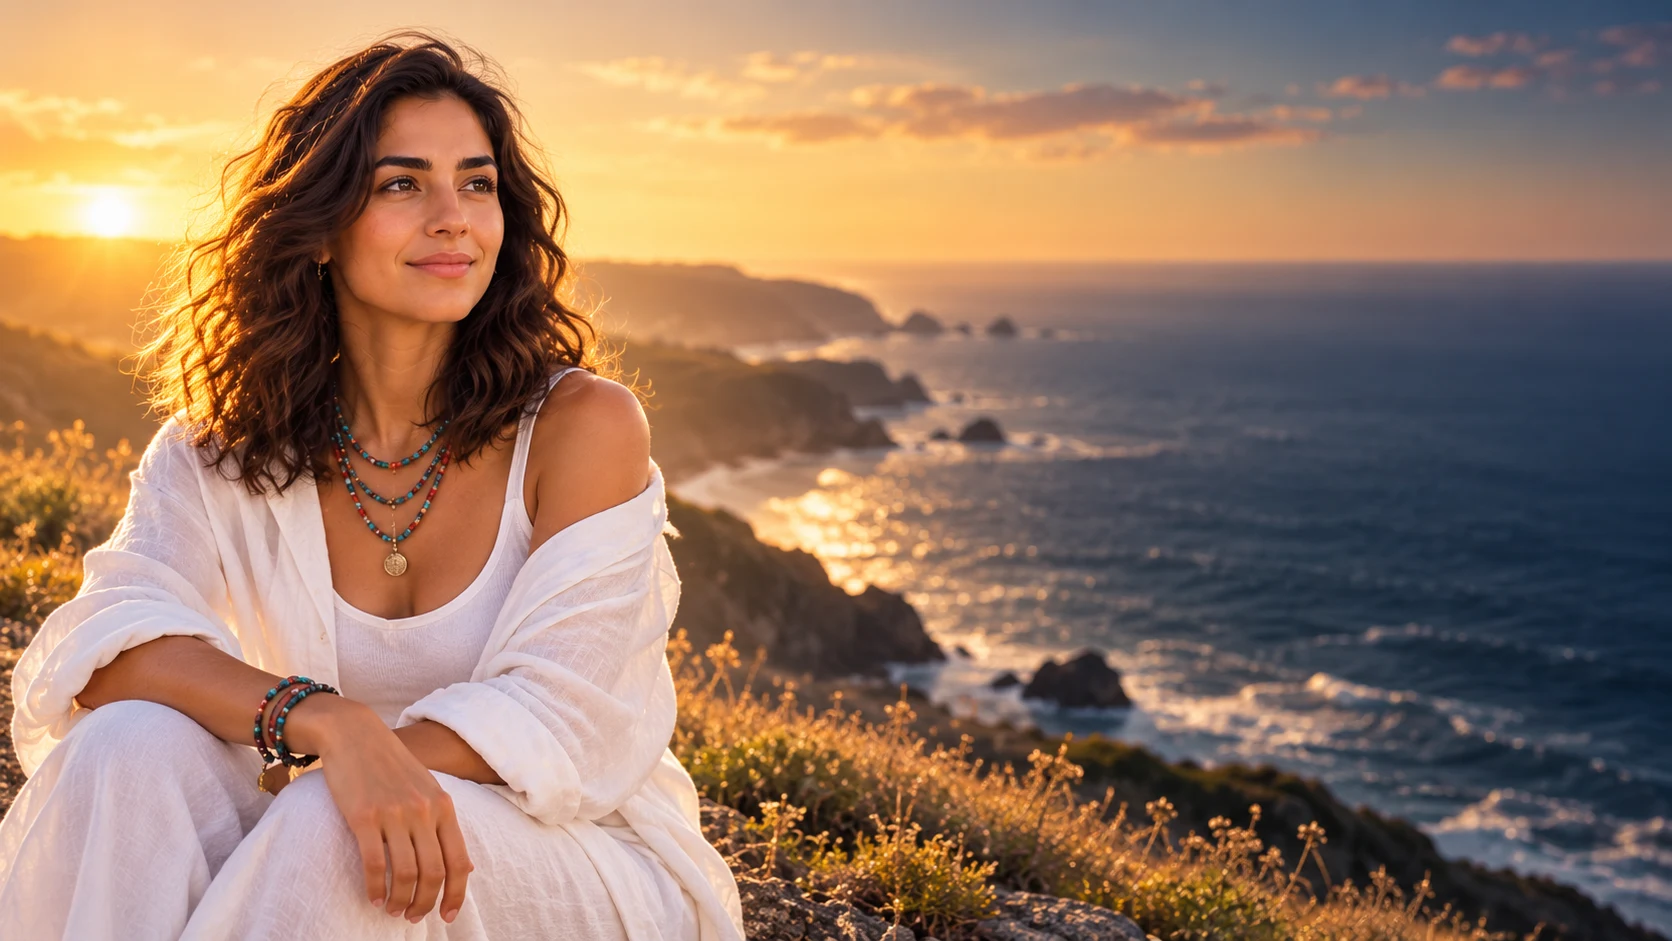
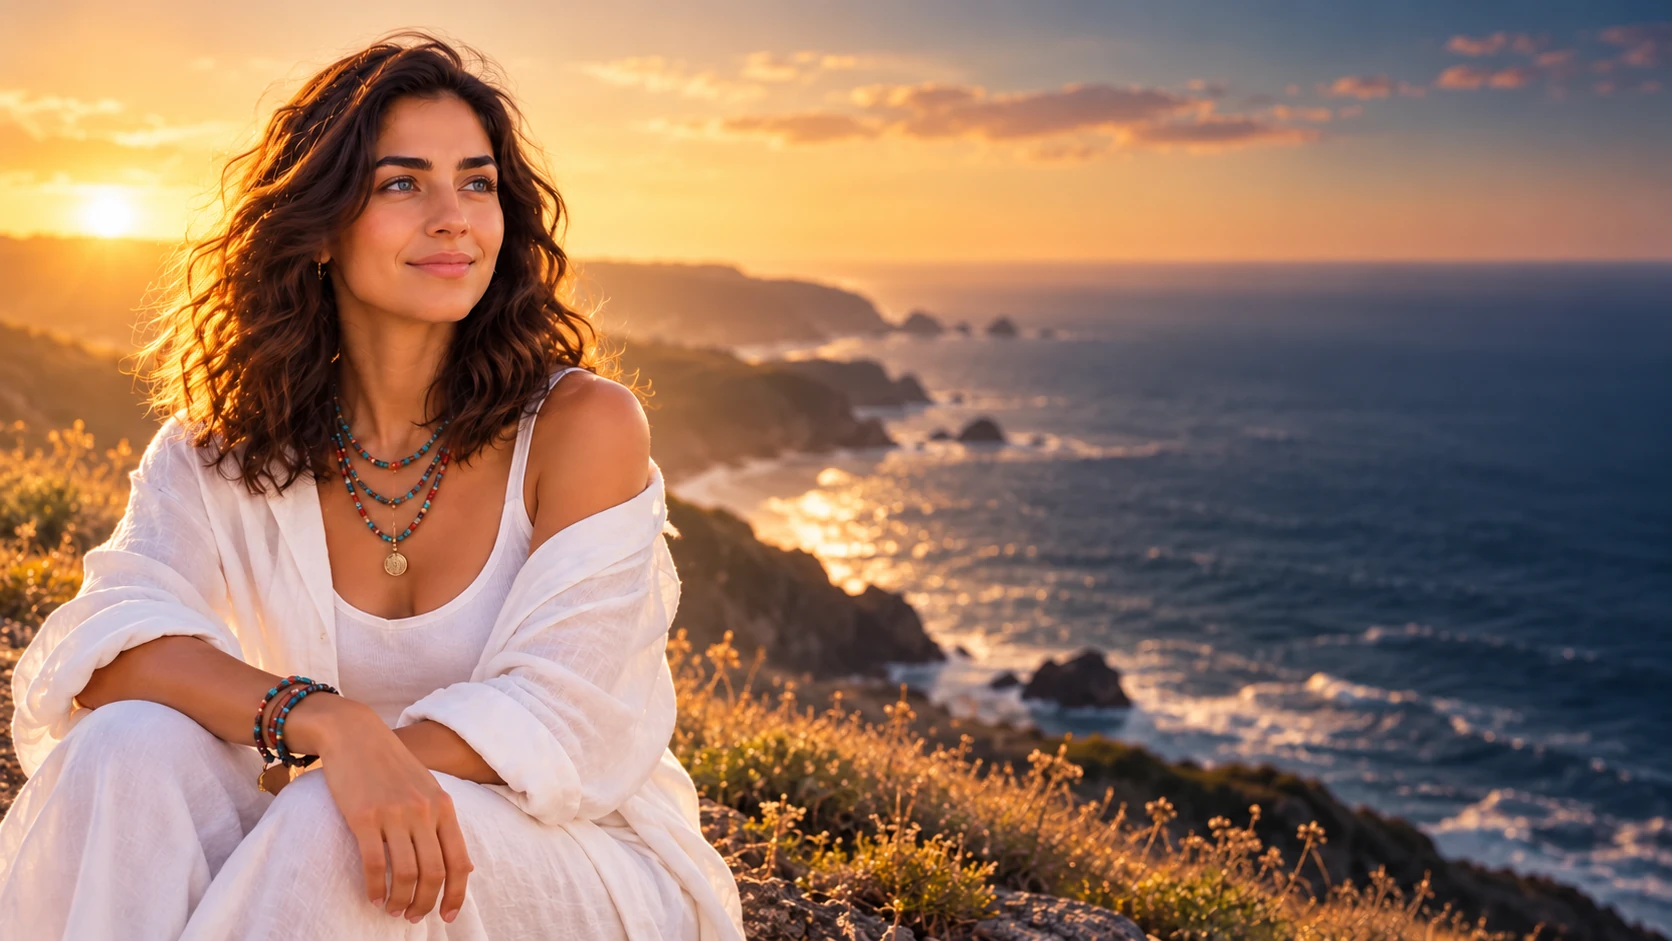
Atualizar Liora com olhos azuis e domínio ouveaminhaprece.netlifly.space

diff --git a/style.css b/style.css
@@ -1,4 +1,4 @@
-:root{--gold:#eac68a;--ink:#102225;--cream:#f9f4e9}*{box-sizing:border-box}html{scroll-behavior:smooth}body{margin:0;background:#0b1b20;color:var(--cream);font-family:Arial,sans-serif}.backdrop{position:absolute;inset:0 0 auto;height:1000px;background:url('assets/liora.webp') 30% top/cover no-repeat;z-index:-2}.veil{position:absolute;inset:0 0 auto;height:1000px;background:linear-gradient(90deg,rgba(4,17,22,.18),rgba(4,17,22,.75) 55%,rgba(4,17,22,.9)),linear-gradient(0deg,#0b1b20,transparent 65%);z-index:-1}header{max-width:1360px;margin:auto;padding:28px 44px;display:flex;justify-content:space-between;align-items:center}.brand{display:flex;align-items:center;gap:16px;color:var(--cream);text-decoration:none;font-size:13px;letter-spacing:2px;font-weight:bold}.brand img{width:66px;height:66px;object-fit:contain}.brand small{display:block;font-size:11px;font-weight:normal;letter-spacing:.4px;margin-top:9px;color:#d4d5ce}.nav{color:#ece5d7;text-decoration:none;font-size:13px}.nav span{color:var(--gold);margin-left:14px}.hero{max-width:1280px;margin:auto;padding:54px 44px 88px;display:grid;grid-template-columns:1fr 440px;gap:80px;align-items:center}.introduction{padding-top:260px}.eyebrow{font-size:11px;letter-spacing:2.8px;color:var(--gold);font-weight:bold;margin:0 0 24px}h1{font-family:Georgia,serif;font-size:clamp(45px,5.2vw,76px);font-weight:normal;line-height:1.07;letter-spacing:-2px;margin:0 0 26px;text-shadow:0 2px 24px #122225}em{font-weight:normal;color:var(--gold)}.lead{font-size:17px;line-height:1.7;color:#edece5;text-shadow:0 1px 6px #132223}.book-note{display:flex;gap:18px;align-items:center;border-top:1px solid #dacba94a;max-width:380px;padding-top:28px;margin-top:30px}.book-symbol{font-size:50px;color:var(--gold)}.book-note strong{font-family:Georgia,serif;font-size:24px;font-weight:normal;line-height:1.3}.book-note p{font-size:12px;color:#c5cec9;margin:10px 0}.liora-caption{font-size:11px;color:#c9ccc4;margin-top:35px}.form-card{background:var(--cream);color:var(--ink);padding:34px;border-radius:5px;box-shadow:0 28px 85px #0006;border-top:3px solid var(--gold)}.pill{font-size:9px;letter-spacing:1.5px;display:flex;gap:7px;align-items:center;color:#655032}.pill i{width:5px;height:5px;background:#96703a;border-radius:50%}.form-card h2{font-family:Georgia,serif;font-size:35px;line-height:1.12;letter-spacing:-.5px;font-weight:normal;margin:22px 0 16px}.form-intro{font-size:14px;line-height:1.65;color:#546163;margin-bottom:25px}label{display:block;font-size:12px;font-weight:bold;margin:17px 0 8px}input:not([type=checkbox]){width:100%;height:48px;border:1px solid #d1d4ca;border-radius:3px;padding:0 13px;font-size:14px;background:#fffdf8;color:var(--ink)}input:focus{outline:2px solid #927b4f;outline-offset:2px}.check{display:flex;align-items:flex-start;gap:9px;font-size:11px;font-weight:normal;line-height:1.55;color:#596465;margin:17px 0}.check input{margin:2px 0;accent-color:#254c48;width:15px;height:15px;flex-shrink:0}.check a{color:#244f49}.optional small{display:block;color:#77817f}button{border:0;width:100%;min-height:51px;background:#214b46;color:#fff9e8;border-radius:3px;font-size:14px;font-weight:bold;padding:14px;margin-top:12px;cursor:pointer;display:flex;align-items:center;justify-content:space-between;gap:8px}button:hover{background:#306258}button:disabled{cursor:wait;opacity:.7}.fine{font-size:10px;text-align:center;color:#78827d;line-height:1.5;margin:16px 0 0}.status{font-size:13px;line-height:1.6;margin:12px 0 0}.status.error{color:#9d3030}.trap{position:absolute;left:-9999px}.inside{max-width:1192px;margin:auto;padding:46px 0 64px;border-top:1px solid #cdd5ce24;display:grid;grid-template-columns:1fr 1fr;gap:60px}.inside h2{font-family:Georgia,serif;font-size:33px;line-height:1.3;font-weight:normal;margin:0}.inside ol{list-style:none;padding:0;margin:0}.inside li{display:flex;gap:22px;margin-bottom:24px}.inside li>span{color:var(--gold);font-family:Georgia,serif;font-size:20px}.inside strong{font-size:14px;font-weight:normal}.inside li p{font-size:12px;color:#afbbb7;line-height:1.5;margin:7px 0}footer{max-width:1280px;margin:auto;display:flex;justify-content:space-between;padding:28px 44px;border-top:1px solid #cdd5ce24;color:#99aaa4;font-size:11px}footer div{display:flex;gap:22px}footer a{color:#bec9c2;text-decoration:none}a:hover{text-decoration:underline}@media(max-width:1000px){.hero{gap:32px;grid-template-columns:1fr 390px;padding-top:25px}.inside{margin:0 44px}.brand small{max-width:180px}.introduction{padding-top:0}h1{font-size:55px}}@media(max-width:740px){header{padding:19px 22px}.brand{gap:11px;font-size:10px;letter-spacing:1.1px}.brand img{width:51px;height:51px}.brand small{font-size:10px;letter-spacing:0;max-width:none}.nav{display:none}.backdrop{height:820px;background-position:24% top}.veil{height:820px;background:linear-gradient(0deg,#0b1b20 3%,rgba(4,17,22,.25) 70%,rgba(4,17,22,.5))}.hero{display:block;padding:260px 22px 45px}.introduction{margin-bottom:34px}.eyebrow{font-size:9px;letter-spacing:2px}h1{font-size:49px;letter-spacing:-1px}.lead{font-size:15px}.book-note{padding-top:22px;margin-top:24px}.book-note strong{font-size:22px}.liora-caption{display:none}.form-card{padding:27px 24px}.form-card h2{font-size:34px}.inside{margin:0 22px;display:block;padding:37px 0 22px}.inside h2{font-size:27px;margin-bottom:30px}footer{padding:25px 22px;gap:20px;flex-wrap:wrap}}@media(prefers-reduced-motion:reduce){html{scroll-behavior:auto}}
+:root{--gold:#eac68a;--ink:#102225;--cream:#f9f4e9}*{box-sizing:border-box}html{scroll-behavior:smooth}body{margin:0;background:#0b1b20;color:var(--cream);font-family:Arial,sans-serif}.backdrop{position:absolute;inset:0 0 auto;height:1000px;background:url('assets/liora.webp?v=20261006-azul') 30% top/cover no-repeat;z-index:-2}.veil{position:absolute;inset:0 0 auto;height:1000px;background:linear-gradient(90deg,rgba(4,17,22,.18),rgba(4,17,22,.75) 55%,rgba(4,17,22,.9)),linear-gradient(0deg,#0b1b20,transparent 65%);z-index:-1}header{max-width:1360px;margin:auto;padding:28px 44px;display:flex;justify-content:space-between;align-items:center}.brand{display:flex;align-items:center;gap:16px;color:var(--cream);text-decoration:none;font-size:13px;letter-spacing:2px;font-weight:bold}.brand img{width:66px;height:66px;object-fit:contain}.brand small{display:block;font-size:11px;font-weight:normal;letter-spacing:.4px;margin-top:9px;color:#d4d5ce}.nav{color:#ece5d7;text-decoration:none;font-size:13px}.nav span{color:var(--gold);margin-left:14px}.hero{max-width:1280px;margin:auto;padding:54px 44px 88px;display:grid;grid-template-columns:1fr 440px;gap:80px;align-items:center}.introduction{padding-top:260px}.eyebrow{font-size:11px;letter-spacing:2.8px;color:var(--gold);font-weight:bold;margin:0 0 24px}h1{font-family:Georgia,serif;font-size:clamp(45px,5.2vw,76px);font-weight:normal;line-height:1.07;letter-spacing:-2px;margin:0 0 26px;text-shadow:0 2px 24px #122225}em{font-weight:normal;color:var(--gold)}.lead{font-size:17px;line-height:1.7;color:#edece5;text-shadow:0 1px 6px #132223}.book-note{display:flex;gap:18px;align-items:center;border-top:1px solid #dacba94a;max-width:380px;padding-top:28px;margin-top:30px}.book-symbol{font-size:50px;color:var(--gold)}.book-note strong{font-family:Georgia,serif;font-size:24px;font-weight:normal;line-height:1.3}.book-note p{font-size:12px;color:#c5cec9;margin:10px 0}.liora-caption{font-size:11px;color:#c9ccc4;margin-top:35px}.form-card{background:var(--cream);color:var(--ink);padding:34px;border-radius:5px;box-shadow:0 28px 85px #0006;border-top:3px solid var(--gold)}.pill{font-size:9px;letter-spacing:1.5px;display:flex;gap:7px;align-items:center;color:#655032}.pill i{width:5px;height:5px;background:#96703a;border-radius:50%}.form-card h2{font-family:Georgia,serif;font-size:35px;line-height:1.12;letter-spacing:-.5px;font-weight:normal;margin:22px 0 16px}.form-intro{font-size:14px;line-height:1.65;color:#546163;margin-bottom:25px}label{display:block;font-size:12px;font-weight:bold;margin:17px 0 8px}input:not([type=checkbox]){width:100%;height:48px;border:1px solid #d1d4ca;border-radius:3px;padding:0 13px;font-size:14px;background:#fffdf8;color:var(--ink)}input:focus{outline:2px solid #927b4f;outline-offset:2px}.check{display:flex;align-items:flex-start;gap:9px;font-size:11px;font-weight:normal;line-height:1.55;color:#596465;margin:17px 0}.check input{margin:2px 0;accent-color:#254c48;width:15px;height:15px;flex-shrink:0}.check a{color:#244f49}.optional small{display:block;color:#77817f}button{border:0;width:100%;min-height:51px;background:#214b46;color:#fff9e8;border-radius:3px;font-size:14px;font-weight:bold;padding:14px;margin-top:12px;cursor:pointer;display:flex;align-items:center;justify-content:space-between;gap:8px}button:hover{background:#306258}button:disabled{cursor:wait;opacity:.7}.fine{font-size:10px;text-align:center;color:#78827d;line-height:1.5;margin:16px 0 0}.status{font-size:13px;line-height:1.6;margin:12px 0 0}.status.error{color:#9d3030}.trap{position:absolute;left:-9999px}.inside{max-width:1192px;margin:auto;padding:46px 0 64px;border-top:1px solid #cdd5ce24;display:grid;grid-template-columns:1fr 1fr;gap:60px}.inside h2{font-family:Georgia,serif;font-size:33px;line-height:1.3;font-weight:normal;margin:0}.inside ol{list-style:none;padding:0;margin:0}.inside li{display:flex;gap:22px;margin-bottom:24px}.inside li>span{color:var(--gold);font-family:Georgia,serif;font-size:20px}.inside strong{font-size:14px;font-weight:normal}.inside li p{font-size:12px;color:#afbbb7;line-height:1.5;margin:7px 0}footer{max-width:1280px;margin:auto;display:flex;justify-content:space-between;padding:28px 44px;border-top:1px solid #cdd5ce24;color:#99aaa4;font-size:11px}footer div{display:flex;gap:22px}footer a{color:#bec9c2;text-decoration:none}a:hover{text-decoration:underline}@media(max-width:1000px){.hero{gap:32px;grid-template-columns:1fr 390px;padding-top:25px}.inside{margin:0 44px}.brand small{max-width:180px}.introduction{padding-top:0}h1{font-size:55px}}@media(max-width:740px){header{padding:19px 22px}.brand{gap:11px;font-size:10px;letter-spacing:1.1px}.brand img{width:51px;height:51px}.brand small{font-size:10px;letter-spacing:0;max-width:none}.nav{display:none}.backdrop{height:820px;background-position:24% top}.veil{height:820px;background:linear-gradient(0deg,#0b1b20 3%,rgba(4,17,22,.25) 70%,rgba(4,17,22,.5))}.hero{display:block;padding:260px 22px 45px}.introduction{margin-bottom:34px}.eyebrow{font-size:9px;letter-spacing:2px}h1{font-size:49px;letter-spacing:-1px}.lead{font-size:15px}.book-note{padding-top:22px;margin-top:24px}.book-note strong{font-size:22px}.liora-caption{display:none}.form-card{padding:27px 24px}.form-card h2{font-size:34px}.inside{margin:0 22px;display:block;padding:37px 0 22px}.inside h2{font-size:27px;margin-bottom:30px}footer{padding:25px 22px;gap:20px;flex-wrap:wrap}}@media(prefers-reduced-motion:reduce){html{scroll-behavior:auto}}
 
 .registration-column{min-width:0}.scripture-window{margin-top:18px;padding:17px 20px 19px;border:1px solid rgba(234,198,138,.35);border-radius:18px;background:rgba(13,30,35,.27);backdrop-filter:blur(7px);color:#fff5e6;box-shadow:0 10px 36px rgba(0,0,0,.1)}.scripture-heading{display:flex;justify-content:space-between;align-items:center;gap:12px;color:#eac68a;font-size:9px;letter-spacing:1.7px}.scripture-pause{width:28px;min-height:28px;padding:0;margin:0;border:1px solid #eac68a55;border-radius:50%;background:transparent;color:#f3d3a1;font-size:12px;box-shadow:none;cursor:pointer}.scripture-pause:hover{background:#eac68a20;transform:none}.scripture-pause:focus-visible{outline:2px solid #f3d3a1;outline-offset:3px}.scripture-content{transition:opacity .28s ease;min-width:0}.scripture-content.fading{opacity:0}.scripture-verse{white-space:nowrap;font-family:Georgia,serif;font-size:18px;line-height:1.8;margin:12px 0 3px;text-align:center}.scripture-reference{margin:0;text-align:center;color:#eac68a;font-size:11px;letter-spacing:.5px}@media(prefers-reduced-motion:reduce){.scripture-content{transition:none}}
 

diff --git a/index.html b/index.html
@@ -1,4 +1,4 @@
-<!doctype html><html lang="pt-PT"><head><meta charset="utf-8"><meta name="viewport" content="width=device-width, initial-scale=1"><title>Ouve a Minha Prece — Um momento só teu com Deus</title><meta name="description" content="Pré-registo no ebook gratuito 7 Dias para Acalmar o Coração com Deus. Uma caminhada de oração, reflexão e fé."><link rel="icon" href="assets/logo.webp"><link rel="stylesheet" href="style.css"></head><body>
+<!doctype html><html lang="pt-PT"><head><meta charset="utf-8"><meta name="viewport" content="width=device-width, initial-scale=1"><title>Ouve a Minha Prece — Um momento só teu com Deus</title><meta name="description" content="Pré-registo no ebook gratuito 7 Dias para Acalmar o Coração com Deus. Uma caminhada de oração, reflexão e fé."><link rel="canonical" href="https://ouveaminhaprece.netlifly.space/"><link rel="icon" href="assets/logo.webp"><link rel="stylesheet" href="style.css?v=20261006-azul"></head><body>
 <div class="backdrop" aria-hidden="true"></div><div class="veil" aria-hidden="true"></div>
 <header><a class="brand" href="./" aria-label="Ouve a Minha Prece, início"><img src="assets/logo.webp" alt="Logótipo Ouve a Minha Prece"><span>OUVE A MINHA PRECE<small>Um encontro com Deus. Ao teu ritmo.</small></span></a><a class="nav" href="https://www.youtube.com/@ouveaminhaprece" target="_blank" rel="noopener">Visita o nosso canal <span>↗</span></a></header>
 <main><section class="hero"><div class="introduction"><p class="eyebrow">ORAÇÃO · REFLEXÃO · ESPERANÇA</p><h1>Há dias em que<br>o coração precisa<br>de <em>paz.</em></h1><p class="lead">Faz uma pausa. Entrega a Deus o que pesa.<br>E reencontra coragem para o próximo passo.</p><div class="book-note"><span class="book-symbol" aria-hidden="true">✧</span><div><strong>7 Dias para Acalmar<br>o Coração com Deus</strong><p>O nosso primeiro ebook gratuito.</p></div></div><p class="liora-caption">Liora · A música e a fé que nos acompanham.</p></div>

diff --git a/INSTALAR.md b/INSTALAR.md
@@ -3,8 +3,8 @@
 Página de pré-registo real (nome + email), sem palavra-passe. O ebook e o flipbook ainda não estão incluídos. Não envia emails automaticamente: os avisos serão enviados depois de escolher e ligar um serviço de email. As inscrições guardam a autorização para entrega e a opção separada de novidades.
 
 ## Instalação
-1. Associar netlify.space ao alojamento e ativar HTTPS.
-2. Extrair este pacote para public_html/ouveaminhaprece/. Abrir https://netlify.space/ouveaminhaprece/ apenas depois da instalação.
+1. Endereço publicado: https://ouveaminhaprece.netlifly.space/. Confirmar HTTPS ativo.
+2. Extrair este pacote para public_html/ouveaminhaprece/. O subdomínio ouveaminhaprece.netlifly.space aponta para essa pasta.
 3. Confirmar PHP 8.0 ou superior. Em config.php, a pasta omp-private é criada um nível acima de public_html, fora do acesso web. Deve ser gravável pelo PHP. Nunca mover os registos para a pasta pública.
 4. Rever a identificação do responsável e o contacto na página de privacidade antes de recolher dados reais. Pode substituir-se o contacto Instagram por email próprio confirmado.
 5. Submeter um registo de teste e confirmar a linha em omp-private/registos.json. Eliminar o teste. Confirmar a opção updates_consent com e sem seleção. O frontend só confirma o registo quando o servidor o guarda.
@@ -15,4 +15,4 @@ Página de pré-registo real (nome + email), sem palavra-passe. O ebook e o flip
 Produzir e validar o ebook. Ligar o envio de email com ligação de acesso. Implementar verificação de email e ligação individual antes de disponibilizar o conteúdo com registo obrigatório; o pré-registo atual não verifica a titularidade do email. Não gerar QR público até o endereço estar ativo. Não publicar uma ligação direta ao PDF se se pretende manter o acesso condicionado ao registo.
 
 ## Materiais
-Medalhão aprovado e referência Liora Moderna recuperados da Drive. Fundo panorâmico criado a partir da referência da Liora. Ficheiros otimizados WebP e servidos localmente, sem dependências externas de fontes ou scripts.
+Medalhão aprovado e referência Liora Moderna recuperados da Drive. Fundo panorâmico com a Liora de olhos azuis, atualizado em 6 de outubro de 2026. Ficheiros otimizados WebP e servidos localmente, sem dependências externas de fontes ou scripts.

diff --git a/README.md b/README.md
@@ -2,14 +2,18 @@
 
 Landing page de pré-registo do ebook «7 Dias para Acalmar o Coração com Deus».
 
-Inclui logótipo, fundo Liora, formulário com consentimentos separados e 15 passagens bíblicas aleatórias numa janela transparente.
+Inclui logótipo, fundo Liora de olhos azuis, formulário com consentimentos separados e 15 passagens bíblicas aleatórias numa janela transparente.
+
+## Endereço publicado
+
+https://ouveaminhaprece.netlifly.space/
 
 ## Publicação na Hostinger
 
 - Ramo de publicação: `main`.
 - Os ficheiros desta raiz são os ficheiros de produção; não é necessária compilação.
 - Requer PHP 8.0 ou superior e HTTPS. GitHub Pages não executa o formulário PHP.
-- Para o endereço inicialmente previsto, instalar em `public_html/ouveaminhaprece/`.
+- Diretório do subdomínio: `public_html/ouveaminhaprece/`.
 - Os contactos ficam fora da pasta pública, em `omp-private`; nunca devem ser enviados para este repositório.
 - Ver `INSTALAR.md` para instalação e verificação.
 
